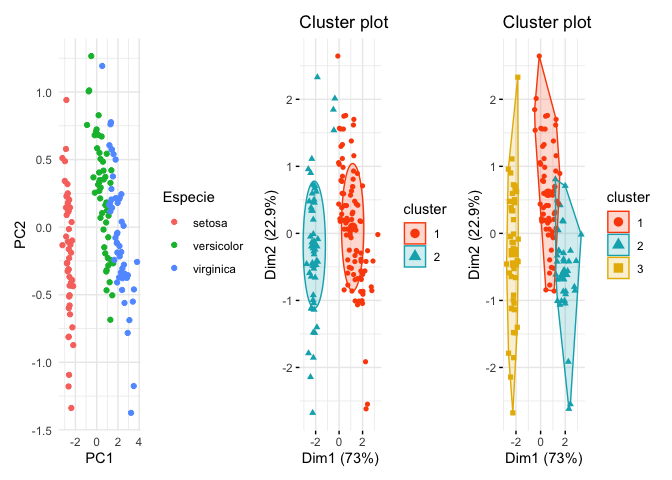
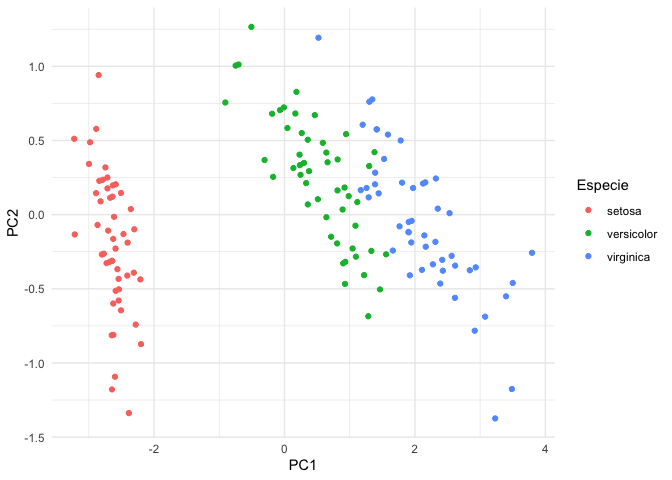
imagenes

diff --git a/README.md b/README.md
@@ -169,9 +169,9 @@ mientras que si tomamos $k=3$ estaríamos haciendo un compromiso con el
 score silueta. Sabemos de antemano que tenemos 3 especies diferentes
 pero es interesante ver los resultados de aprendizaje no supervisado.
 
-Realizaremos ahora el análisis de clustering y lo compararemos con la
-descomposición en componentes prncipales (para poderlo visualizar en 2
-dimensiones).
+Realizaremos ahora el análisis de clustering para $k=2$ y $k=3$ y lo
+compararemos con la descomposición en componentes prncipales (para
+poderlo visualizar en 2 dimensiones).
 
 ``` r
 library(tidyverse)
@@ -193,14 +193,10 @@ kmeans_2 <- kmeans(iris[,-5], 2)
 kmeans2_plot <- fviz_cluster(kmeans_2, data = iris[,-5], 
              palette = c("#FC4E07", "#00AFBB", "#E7B800"), 
              geom = 'point',
-             ellipse.type = "euclid",
+             #ellipse.type = "euclid",
              # star.plot = TRUE, 
              repel = TRUE, 
              ggtheme = theme_minimal())
-
-ggsave('kmeans2.png', device= 'png', dpi = 'retina',
-       units = 'cm', width = 20, height = 18)
-
 
 kmeans_3 <- kmeans(iris[,-5], 3)
 
@@ -212,10 +208,30 @@ kmeans3_plot <- fviz_cluster(kmeans_3, data = iris[,-5],
              repel = TRUE, 
              ggtheme = theme_minimal())
 
-pca_plot + kmeans2_plot +kmeans3_plot
+pca_plot
 ```
 
 ![](README_files/figure-gfm/unnamed-chunk-3-1.png)<!-- -->
+
+``` r
+kmeans2_plot
+```
+
+![](README_files/figure-gfm/unnamed-chunk-3-2.png)<!-- -->
+
+``` r
+kmeans3_plot
+```
+
+![](README_files/figure-gfm/unnamed-chunk-3-3.png)<!-- -->
+
+Es claro por qué el clustering con $k=2$ maximiza el score silueta ya
+que los cluster están mucho más separados. Sin embargo, al mirar nuestro
+control (PCA), vemos que hay confusión entre setosa y versicolor así
+como entre versicolor y virginica. Por otro lado, es interesante notar
+cómo en 3-medias, se comienza a diferenciar adecuadamente entre
+versicolor y virginica y setosa se encuentra enteramente en su propio
+cluster.
 
 ### Bibliografía
 
